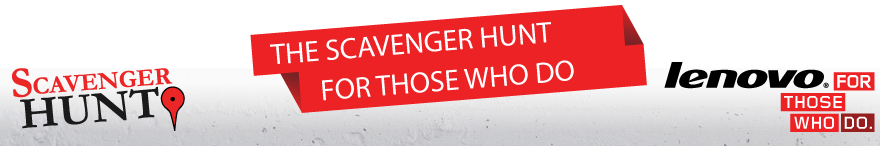
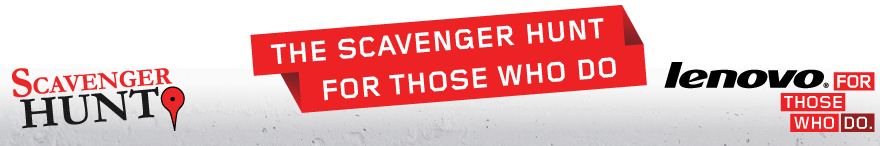
added team signup functionality, asthetics, prizes page, basic leaderboard

Changed region(s): [[0.3068, 0.1096, 0.7057, 0.4384], [0.3682, 0.3836, 0.7057, 0.6849]]

diff --git a/sites/all/micro/hunt/hunt.css b/sites/all/micro/hunt/hunt.css
@@ -71,8 +71,7 @@
   background-color: #DC291E;
   border: 0;
   cursor: pointer;
-  float: right;
-  margin-right: 25px;
+  margin-left: 122px;
 }
 
 #page #hunt a.button,
@@ -97,9 +96,7 @@
 #page #hunt a.button-long {
   font-size: 1.05em;
   line-height: 1.4em;
-  padding: 3px 40px 3px 20px;
-  width: 135px;
-  height: 26px;
+  padding: 3px 20px;
   color: white;
   background-color: #DC291E;
   border: 0;
@@ -108,7 +105,8 @@
 }
 
 #page #hunt a.learn-more {
-  margin-left: 75px;
+  float: right;
+  margin-right: 13px;
 }
 
 
@@ -160,7 +158,7 @@ ul.map-marker li {
 }
 
 img.header {
-  margin-left: -33px;
+  margin-left: -17px;
   margin-bottom: -17px;
 }
 
@@ -255,9 +253,9 @@ body div#page-wrapper #page #main-wrapper #main, body div#page-wrapper #page p {
   background-position: -379px -70px;
 }
 
-/*#huntnav a.leaderboard.active, #huntnav a.leaderboard:hover {
+#huntnav a.leaderboard.active, #huntnav a.leaderboard:hover {
     background-position: -379px 0;
-}*/
+}
 
 #huntnav a.faqs {
   width: 120px;
@@ -306,4 +304,201 @@ a.lenovo {
   text-indent: -99em;
   right: 0px;
   top: 0px;
+}
+
+#main-wrapper div.computer p {
+  width: 400px;
+  margin: 0 auto;
+}
+
+table.computers p strong {
+  color: #EB2626;
+}
+
+table.computers {
+  text-align: center;
+}
+
+img.youre-going {
+  float: left;
+  padding-right: 18px;
+}
+
+.center {
+  text-align: center;
+}
+
+p.trip-descrip {
+  line-height: normal;
+  font-size: 1.5em;
+  text-align: center;
+}
+
+img.grand-prize-photo {
+  display: block;
+  margin: 0 auto;
+}
+
+div.grand-prize {
+  padding-top: 40px;
+}
+
+img.joined-forces {
+  padding-bottom: 30px;
+}
+
+img.subheader {
+  padding-bottom: 15px;
+}
+
+img.computers {
+  padding-top: 60px;
+}
+
+table.computers tr.row1 td.col2 img {
+  margin-bottom: -26px;
+}
+
+table.computers tr.row2 td.col2 img {
+  margin-bottom: -23px;
+}
+
+div.computers div.col1 {
+  padding-right: 10px;
+}
+
+body.page-scavenger-hunt iframe {
+  padding-bottom: 50px;
+}
+
+div.sub-nav {
+  height: 28px;
+  background-color: #EB2626;
+  float: right;
+  margin-right: -6px;
+}
+
+div.teammates {
+  position: relative;
+  background-color: #EB2626;
+  float: right;
+  width: 265px;
+  margin-right: 2px;
+  margin-top: 40px;
+}
+
+div.teammates div.top {
+  position: absolute;
+  right: -19px;
+  border-bottom: 20px solid #EB2626;
+  border-right: 20px solid #E2E2E2;
+  font-size: 0px;
+  line-height: 0%;
+}
+
+div.teammates div.bottom {
+  position: absolute;
+  right: -19px;
+  border-bottom: 20px solid #E2E2E2;
+  border-right: 20px solid #EB2626;
+  font-size: 0px;
+  line-height: 0%;
+}
+
+div.teammates div.middle {
+  background-color: #EB2626;
+  width: 284px;
+  min-height: 72px;
+  padding-bottom: 17px;
+}
+
+div.teammates div.middle img {
+  padding-bottom: 10px;
+}
+
+div.teammates div.name {
+  padding-left: 15px;
+  padding-bottom: 5px;
+  color: #FFF;
+  font-size: 1.3em;
+}
+
+img.rhombus {
+  float: right;
+  margin-right: -14px;
+  margin-top: -5px;
+}
+
+#main #content div.sub-nav a {
+  color: #FFF;
+  text-decoration: underline;
+}
+
+div.sub-nav a.next {
+  padding-right: 25px;
+}
+
+div.sub-nav div.space {
+  height: 5px;
+}
+
+#main #content h2 {
+  color: #000;
+  font-size: 2.5em;
+}
+
+body.page-scavenger-hunt-leaderboard #main #content div#hunt-node-body {
+  padding-top: 70px;
+  padding-bottom: 70px;
+}
+
+body.page-scavenger-hunt-leaderboard h3 {
+  margin: 0;
+  font-size: 1.3em;
+}
+
+h2.team-name {
+  padding-top: 26px;
+}
+
+body.page-scavenger-hunt-leaderboard div.number, body.page-scavenger-hunt-leaderboard img.rankheader {
+  float: left;
+}
+
+body.page-scavenger-hunt-leaderboard div.number {
+  color: #000;
+  font-size: 2.3em;
+  padding-top: 12px;
+}
+
+body.page-scavenger-hunt-leaderboard div.place div.number {
+  padding-right: 30px;
+}
+
+body.page-scavenger-hunt-leaderboard div.points div.number {
+  padding-left: 30px;
+}
+
+body.page-scavenger-hunt-leaderboard div.place img.rankheader {
+  padding-right: 45px;
+}
+
+div.leaderboard-school-info {
+  padding-left: 25px;
+  padding-top: 35px;
+  float: left;
+}
+
+div#map_canvas {
+  width: 470px;
+  height: 300px;
+  margin-top: 30px;
+}
+
+div.challenges div.description {
+  color: #000;
+  font-weight: bold;
+  font-size: 1.2em;
+  margin-left: -20px;
+  padding-top: 28px;
 }

diff --git a/sites/all/themes/dosomething/templates/scavenger_2011_signup_form.tpl.php b/sites/all/themes/dosomething/templates/scavenger_2011_signup_form.tpl.php
@@ -1,13 +1,37 @@
-<?php
+<?
 
+$team = $_GET['team_name'];
+$zip = $_GET['zip'];
+$title_field = '';
+$zip_field = '';
+
+if ($team && $zip) {?>
+  <img src="/sites/all/micro/hunt/join-your-team.jpg" alt="Join your team (step 1 of 2)"/>
+<?
+  drupal_set_message('Welcome to the Scavenger Hunt!  Sign up with your team on the right side of this page.');
+  $form['title']['#value'] = $team;
+  $form['locations'][0]['postal_code']['#value'] = $zip;
+  $title_field = '<br/><br/><b>Team Name:</b> '.$team;
+  $zip_field = '<b>Postal code:</b> '.$zip.'<br/><br/>';
+} else { ?>
+  <img src="/sites/all/micro/hunt/register-your-team.jpg" alt="Register your team (step 1 of 2)"/>
+<?
+  $title_field = drupal_render($form['title']);
+  $zip_field = drupal_render($form['locations'][0]['postal_code']);
+}
   $form['buttons']['submit']['#value'] = 'next';
   $form['buttons']['submit']['#attributes'] = array('class' => 'button button-medium shadow rounded');
-
-  print drupal_render($form['title']);
+//global $user;
+//if ($user->uid == 454869) {
+  $form['field_email'][0]['value']['#required'] = 0;
+//  drupal_set_message('<pre>'.print_r($form['field_email'],1).'</pre>');
+//}
+  print $title_field;
   print drupal_render($form['field_campaign_first_name']);
   print drupal_render($form['field_campaign_last_name']);
   print drupal_render($form['field_email']);
-  print drupal_render($form['locations'][0]['postal_code']);
+  print drupal_render($form['field_campaign_phone']);
+  print $zip_field;
   print drupal_render($form['buttons']['submit']);
   
 ?>

diff --git a/sites/all/themes/dosomething/templates/page-scavenger-hunt.tpl.php b/sites/all/themes/dosomething/templates/page-scavenger-hunt.tpl.php
@@ -132,6 +132,7 @@ $last_path_item = preg_replace('/[?#].*/','',
   <?php print $head; ?>
   <?php print $styles; ?>
   <link rel="stylesheet" href="/<?=$ds_micro.'/hunt/hunt.css';?>" type="text/css" media="all" />
+  <script type="text/javascript" src="http://maps.google.com/maps/api/js?sensor=false"></script>
   <?php print $scripts; ?>
 </head>
 
@@ -172,7 +173,7 @@ $last_path_item = preg_replace('/[?#].*/','',
         <div id="huntnav">
         <a class="home <?if ($last_path_item=='scavenger-hunt') { print 'active';}?>" href="/scavenger-hunt#">Scavenger Hunt Home</a>
         <a class="challenges <?if ($last_path_item=='challenges') { print 'active';}?>" href="/scavenger-hunt/challenges#">Challenges</a>
-        <a class="leaderboard <? //if ($last_path_item=='leaderboard') { print 'active';}?>" href="#" title="Check back on July 11th!">Leaderboard</a>
+        <a class="leaderboard <? if ($last_path_item=='leaderboard') { print 'active';}?>" href="/scavenger-hunt/leaderboard#">Leaderboard</a>
         <a class="faqs <?if ($last_path_item=='faq') { print 'active';}?>" href="/scavenger-hunt/faq#">Frequently Asked Questions</a>
         <a class="prizes <?if ($last_path_item=='prizes') { print 'active';}?>" href="/scavenger-hunt/prizes#">Prizes</a>
         </div>

diff --git a/sites/all/themes/dosomething/templates/node-path-scavenger-hunt.tpl.php b/sites/all/themes/dosomething/templates/node-path-scavenger-hunt.tpl.php
@@ -100,7 +100,6 @@ $last_path_item = preg_replace('/[?#].*/','',
 if ($_GET['signedup']) {
   print '<p>Great, you are signed up!</p>';
 } else { ?>
-  <img src="/sites/all/micro/hunt/register-your-team.jpg" alt="Register your team (step 1 of 2)"/>
 <?
   module_load_include('inc', 'node', 'node.pages');
   $node = new stdClass();
